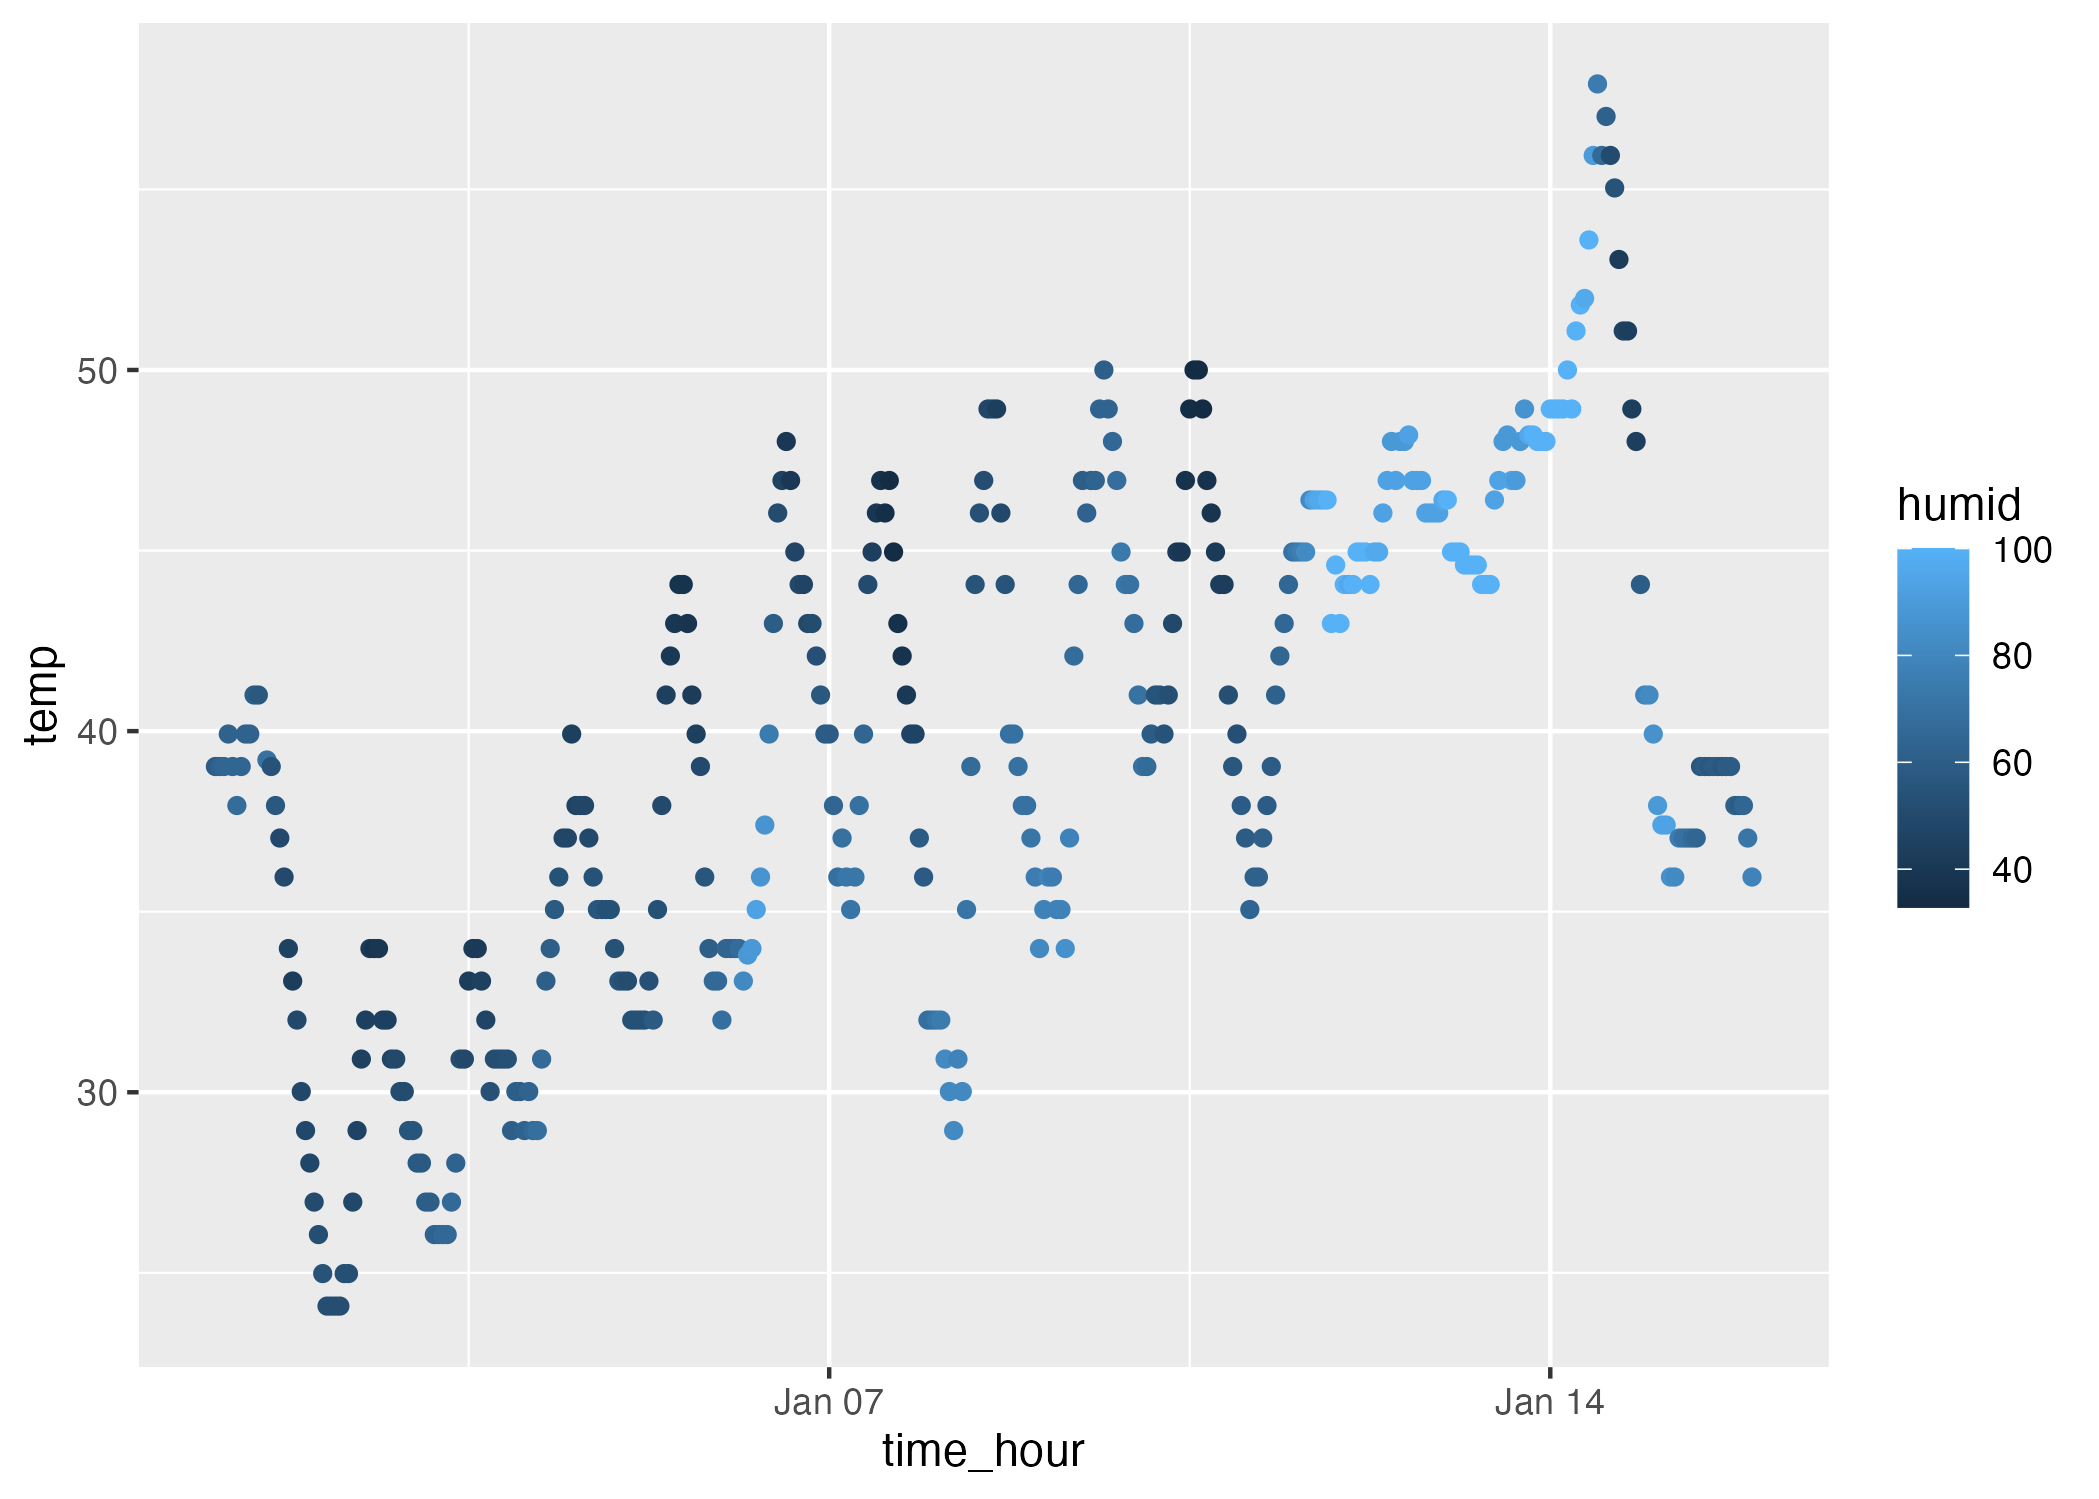
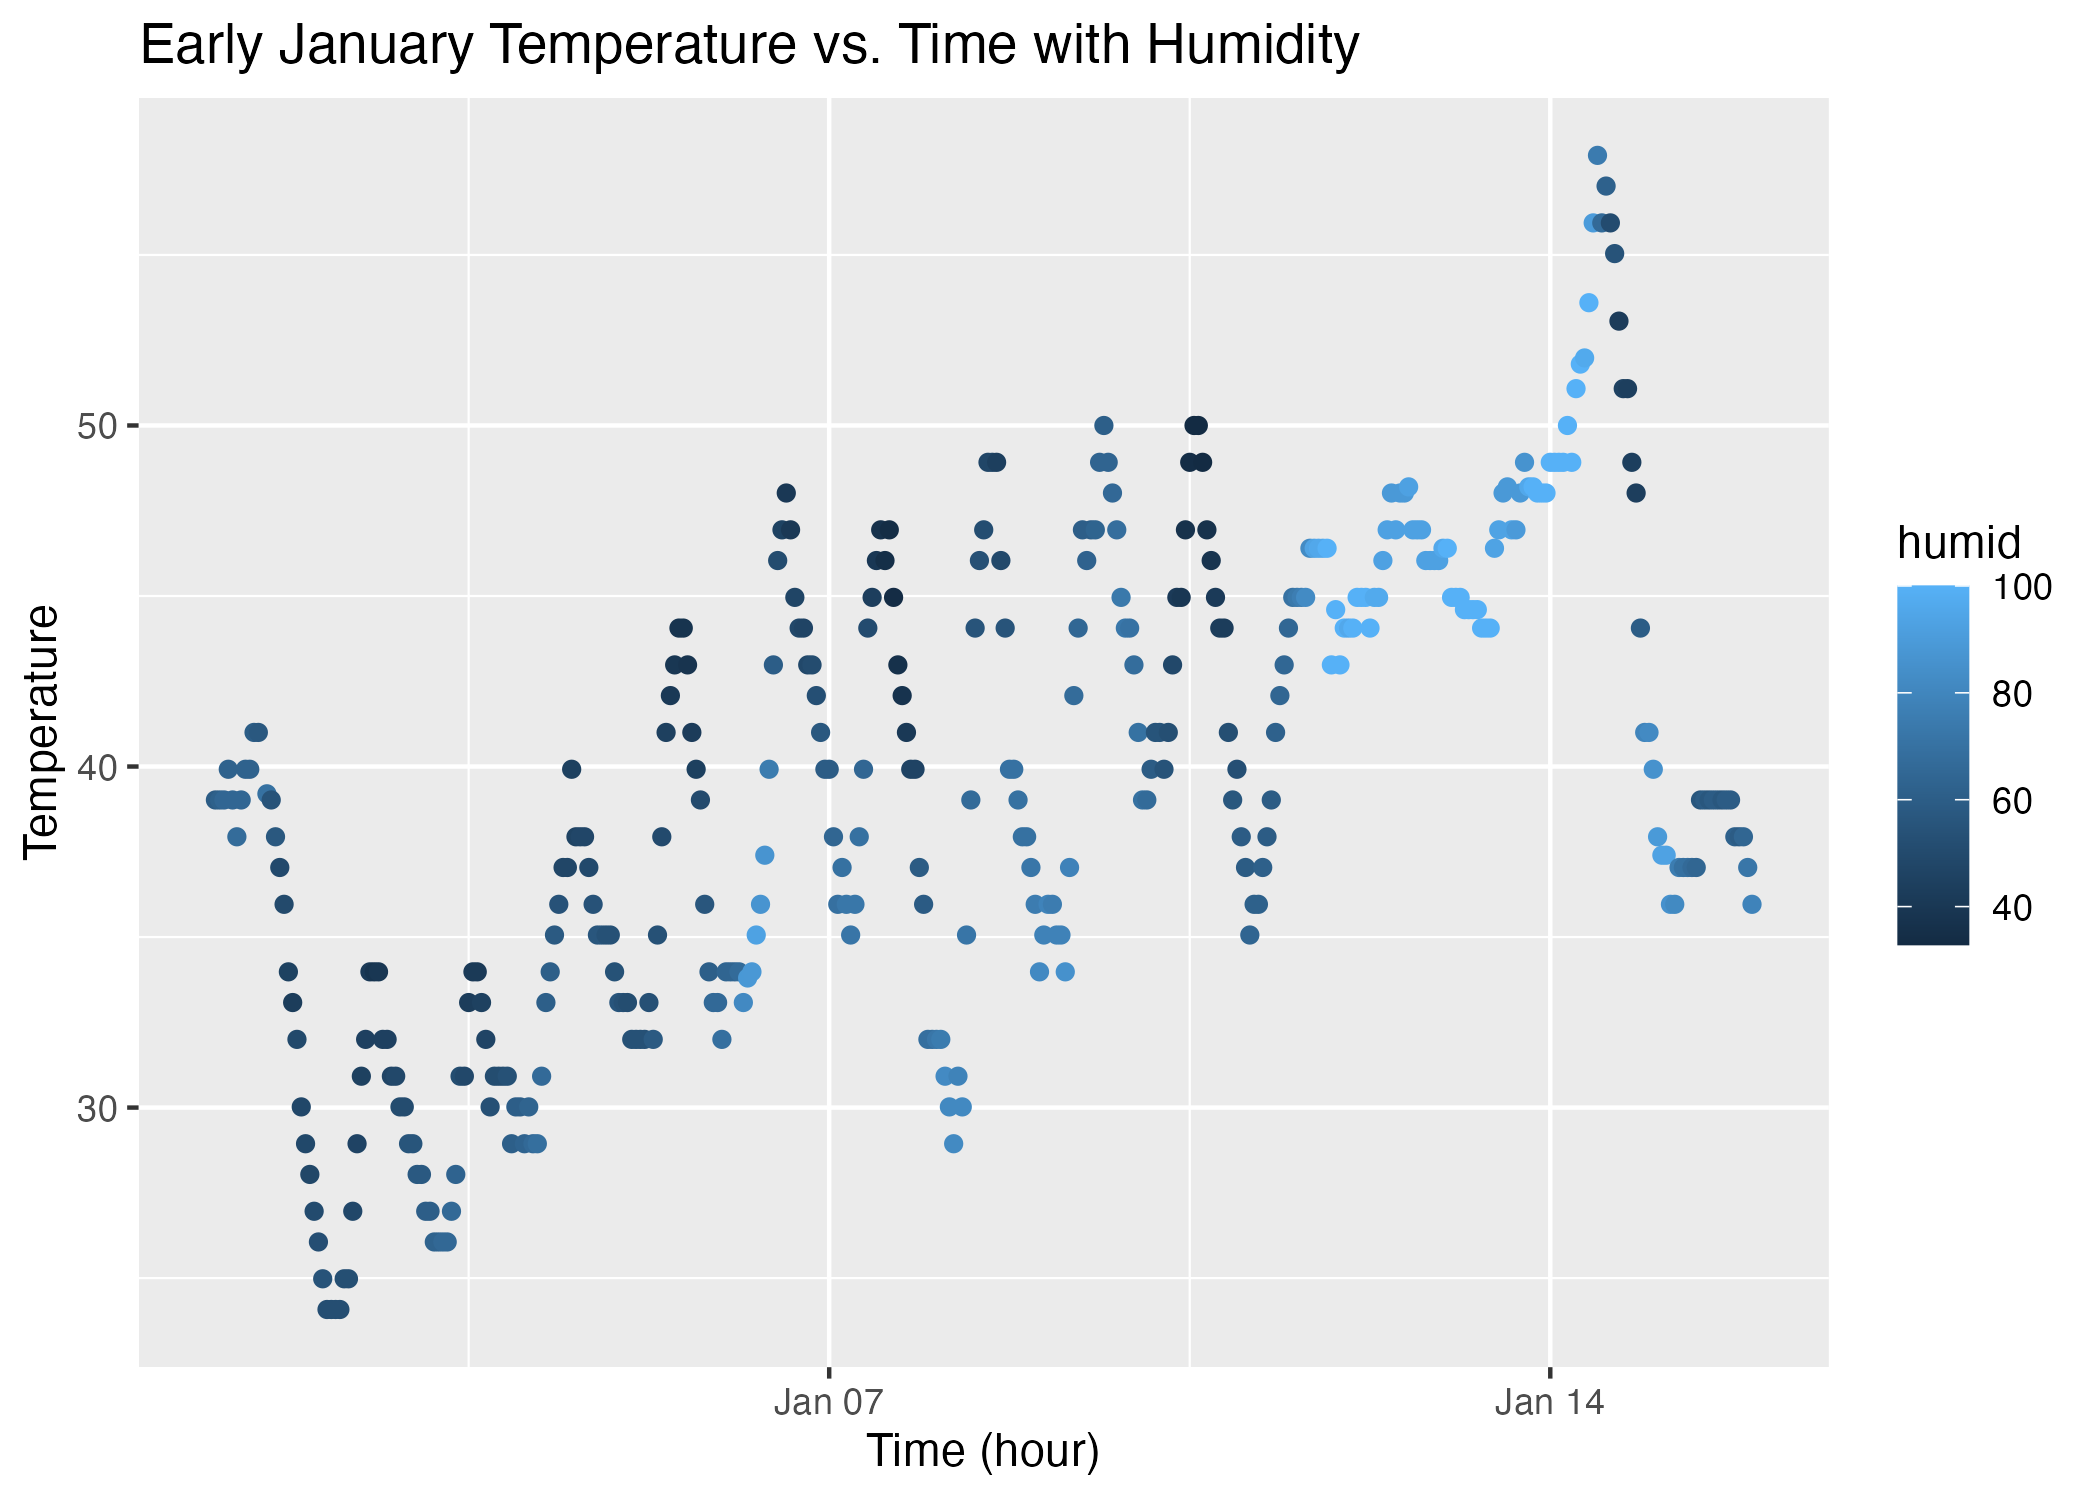
Prob1: update plot: explain + code

diff --git a/p8015_hw1_yg3099.md b/p8015_hw1_yg3099.md
@@ -39,13 +39,22 @@ The dataset include 358 rows and 15 columns.
 
 The mean temperature among the collected data is 39.5821229.
 
+The code chunk below creates a scatterplot on temperature vs. time in
+hour. The humidity can be identified through the color of the points.
+The plot is saved to the project directory.
+
 ``` r
 # create and print scatterplot
 temp_time_plot = ggplot(
   early_january_weather, 
   aes(x = time_hour, y = temp, color = humid)
   ) + 
-  geom_point()
+  geom_point() +
+  labs(
+  title = "Early January Temperature vs. Time with Humidity", 
+  x = "Time (hour)", 
+  y = "Temperature"
+  )
 
 print(temp_time_plot)
 ```
@@ -103,7 +112,52 @@ factor_mean = mean(pull(p2_df, var = factor_ABC))
     ## or logical: returning NA
 
 Mean of the random sample from standard normal distribution is
--0.2713055.
+-0.4309894.
 
 Mean of the logical vector indicating whether elements of the sample are
-greater than zero is 0.4.
+greater than zero is 0.3.
+
+Mean of the character vector is NA.
+
+Mean of the factor vector with 3 levels is NA.
+
+The means of random sample from standard normal distribution and the
+logical vector works.
+
+The means of the character vectors and factor vectors do not work.
+
+The code chunk below try converting logical, character, and factor
+variables with as.numeric.
+
+``` r
+# convert logical, character, and factor variables with as.numeric
+num_log = as.numeric(p2_df$sample_gt_zero)
+
+num_char = as.numeric(p2_df$character_vector)
+```
+
+    ## Warning: NAs introduced by coercion
+
+``` r
+num_fac = as.numeric(p2_df$factor_ABC)
+```
+
+When the logical variable is converted, TRUE is convereted into 1 and
+FALSE is converted into 0.
+
+There’s a warning message when converting character variable: “Warning
+message: NAs introduced by coercion” All outcomes are “NA”.
+
+When factor variable is converted, levels “A”, “B”, and “C” are
+converted into number 1, 2, and 3 respectively.
+
+as.numeric() tries to convert non-numeric variables into numeric. For
+logical variables, 0 and 1 con represent TRUE/FALSE. For factor
+variable, the order of levels are demonstrated.
+
+When trying to mean of logical variable, the mean of as.numeric result
+is taken. For the mean of factor variable, it is not automatically
+converted with as.numeric. Thus the mean cannot be calculated.
+
+There is no way to convert character variable into numeric values. Thus,
+it’s unable to take the mean.
